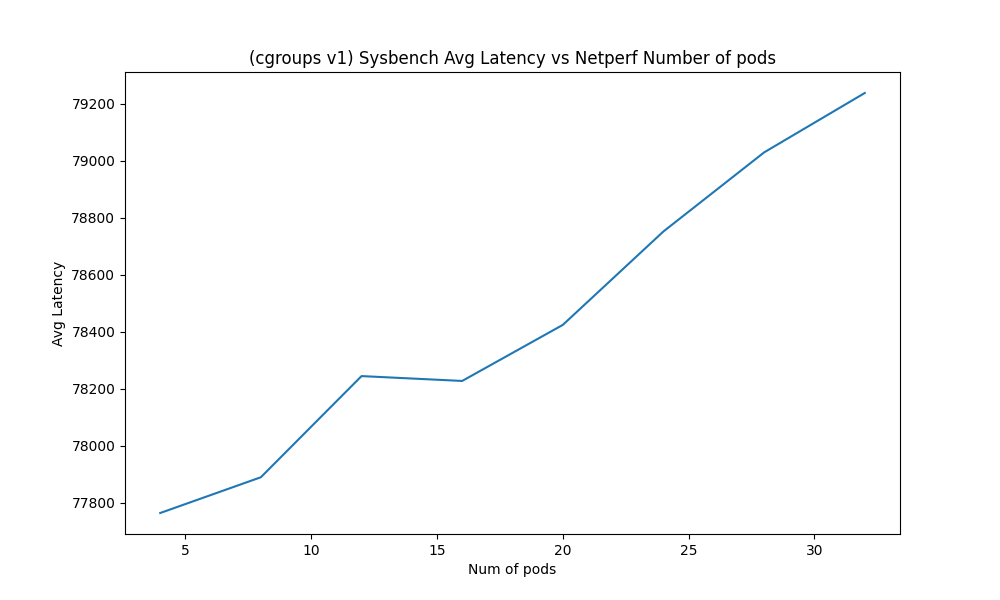
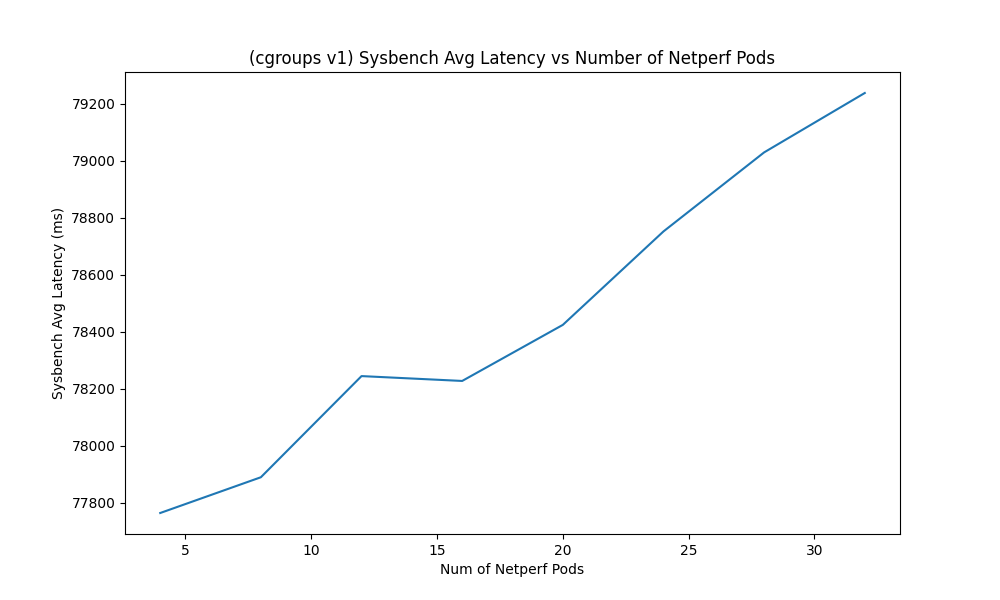
improve graphs

diff --git a/analysis.py b/analysis.py
@@ -55,9 +55,9 @@ def parse_sysbench_logs(prefix):
     plt.figure(figsize=(10, 6))
     plt.plot(df['Num of pods'], df['Avg Latency'])
 
-    plt.title(f'(cgroups {prefix.split("_")[1]}) Sysbench Avg Latency vs Netperf Number of pods')
-    plt.xlabel('Num of pods')
-    plt.ylabel('Avg Latency')
+    plt.title(f'(cgroups {prefix.split("_")[1]}) Sysbench Avg Latency vs Number of Netperf Pods')
+    plt.xlabel('Num of Netperf Pods')
+    plt.ylabel('Sysbench Avg Latency (ms)')
 
     plt.savefig(f"avg_latency_{prefix}.png")
     
@@ -114,9 +114,9 @@ def parse_netperf_throughput(prefix):
     plt.figure(figsize=(10, 6))
     plt.plot(df['Num of pods'], df['Throughput'])
 
-    plt.title(f'(cgroups {prefix.split("_")[1]}) Netperf Throughput vs Number of pods')
-    plt.xlabel('Num of pods')
-    plt.ylabel('Throughput')
+    plt.title(f'(cgroups {prefix.split("_")[1]}) Netperf Network Throughput vs Number of Pods')
+    plt.xlabel('Num of Pods')
+    plt.ylabel('Avg Network Throughput Per Pod (mbps)')
     plt.xticks([20, 40, 60, 80])
     plt.savefig(f"throughput_{prefix}.png")
     
